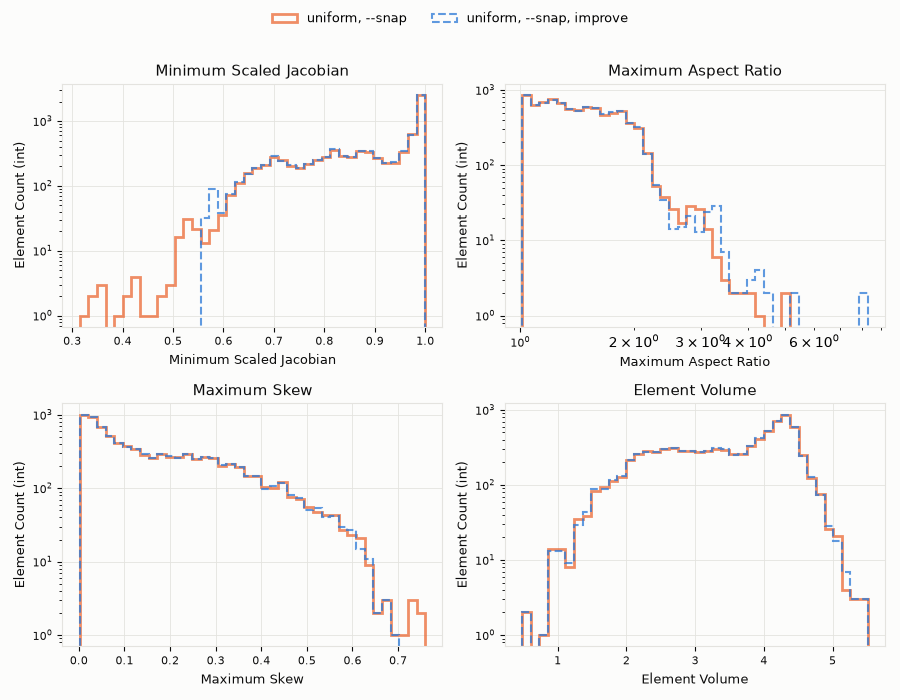
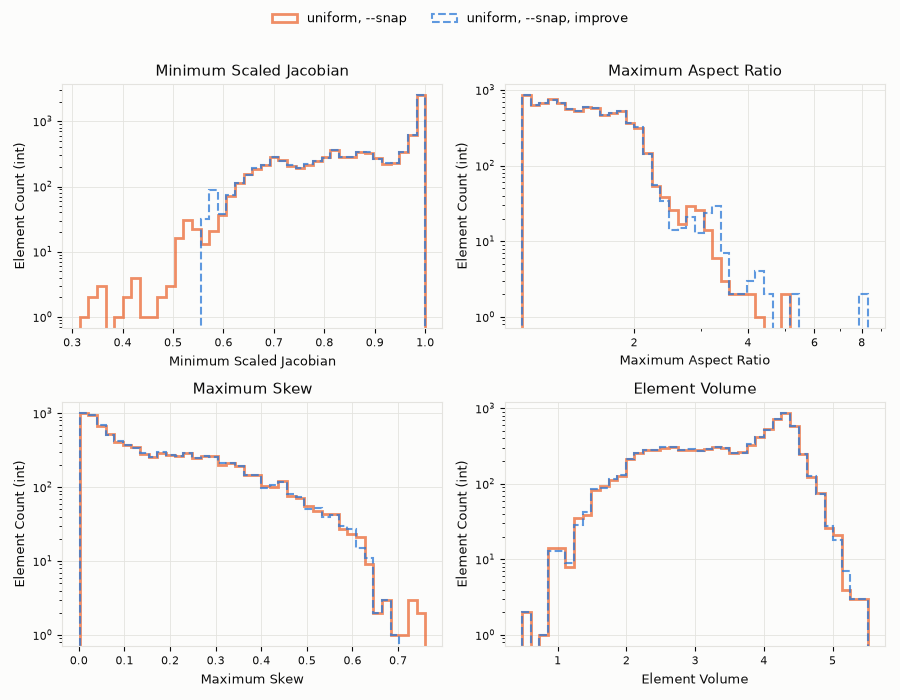
histograms: plain aspect-ratio ticks on the log axis

diff --git a/book/examples/gallery/academic/bone_quality_histograms.py b/book/examples/gallery/academic/bone_quality_histograms.py
@@ -39,6 +39,7 @@ import matplotlib
 matplotlib.use("svg")
 import matplotlib.pyplot as plt
 import numpy as np
+from matplotlib.ticker import FixedLocator, FuncFormatter, NullFormatter
 
 # The first series stays orange, the second blue, and the third green.
 SERIES = [
@@ -76,6 +77,10 @@ def panel_plot(*, ax, series, title, log_x=False):
         lo = max(lo, 1e-3)
         bins = np.logspace(np.log10(lo), np.log10(hi), 41)
         ax.set_xscale("log")
+        ticks = [t for t in (2, 4, 6, 8, 10, 20, 30) if lo <= t <= hi]
+        ax.xaxis.set_major_locator(FixedLocator(ticks))
+        ax.xaxis.set_major_formatter(FuncFormatter(lambda t, _: f"{t:g}"))
+        ax.xaxis.set_minor_formatter(NullFormatter())
     else:
         bins = np.linspace(lo, hi, 41)
     # Unfilled outlines with alpha on the line, so crossing outlines blend.
